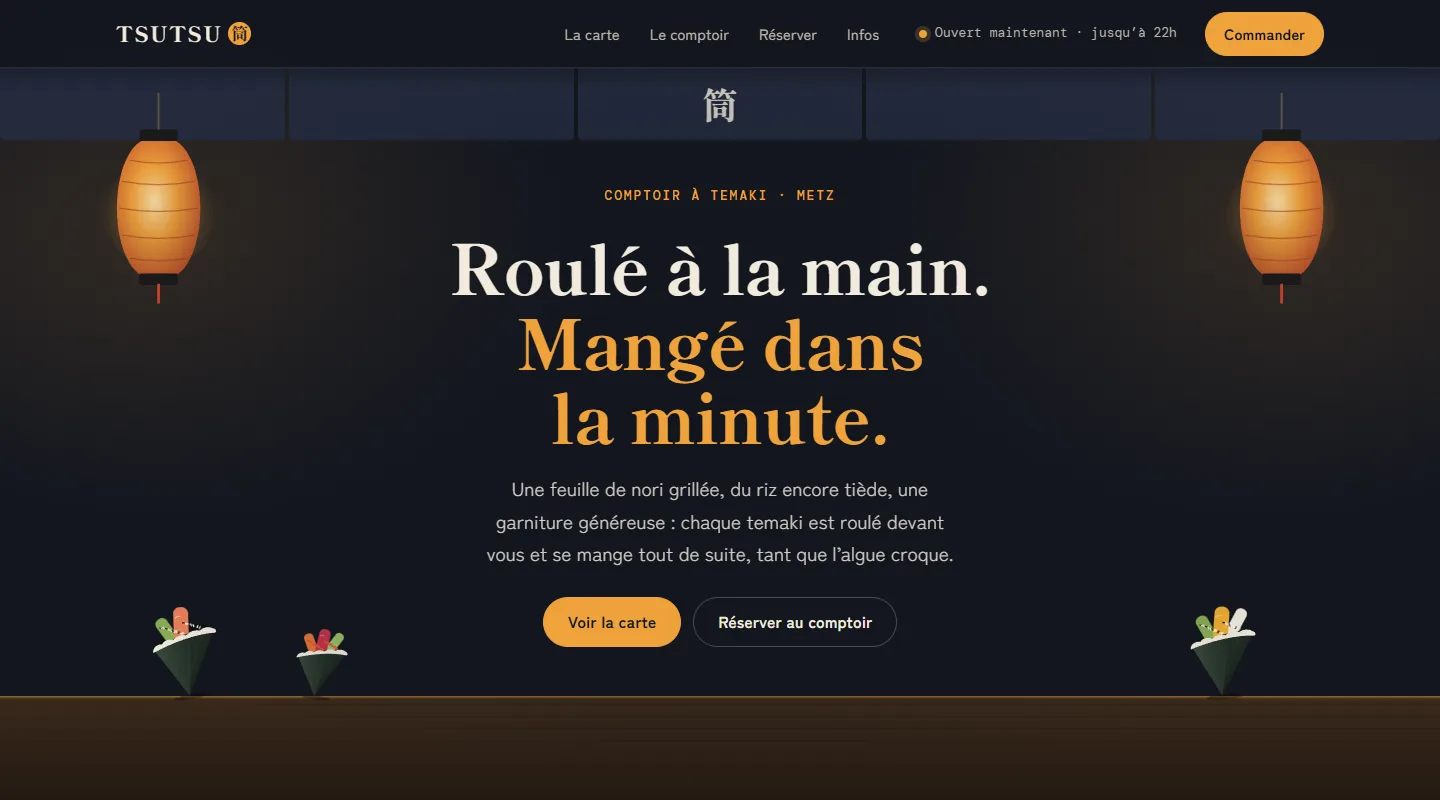
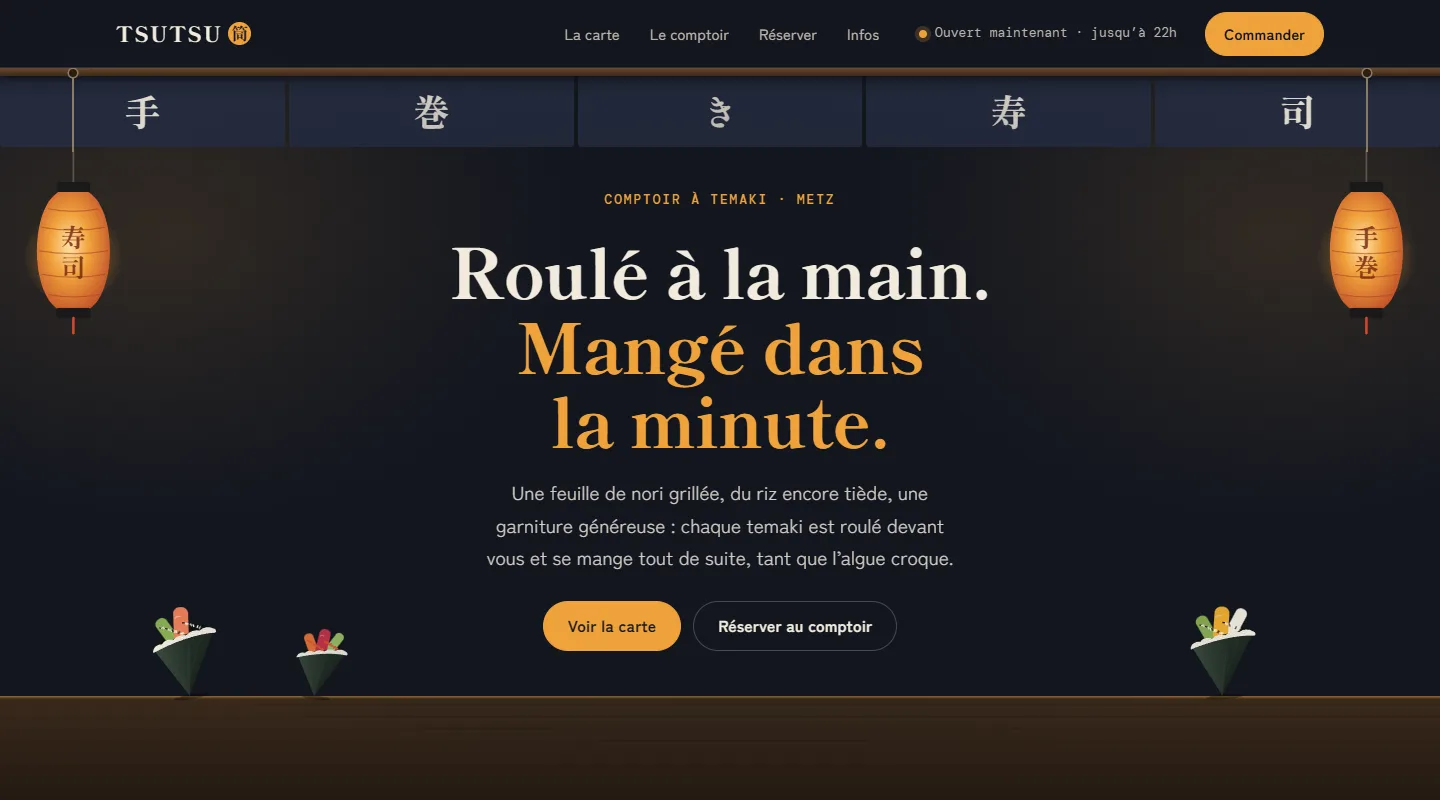
Vitrine+ : précision sur les fonctions de la démo TSUTSU
Mention discrète sous TSUTSU (Réalisations et exemple de formule) :
la démo montre plusieurs fonctions, Vitrine+ en inclut une au choix.
Page Tarifs : « Fonction supplémentaire : sur devis ». Captures de
TSUTSU mises à jour.

diff --git a/src/data/demos.ts b/src/data/demos.ts
@@ -22,6 +22,7 @@ export type Demo = {
   alt: string;
   description: string; // une phrase (bloc mis en avant)
   phraseFormule: string; // ce que la formule apporte concrètement dans cette démo (bloc des formules)
+  precision?: string; // petite mention sous la démo (Réalisations + exemple de formule), ex. démo plus riche que la formule
   positionImage: 'droite' | 'gauche'; // place de la vignette par rapport au nom (liste Réalisations)
   cadrage: string; // partie de la capture visible dans la vignette-pilule (CSS object-position)
   enAvant?: boolean; // true : démo du bloc « projet mis en avant » (une seule)
@@ -51,6 +52,8 @@ export const demos: Demo[] = [
     alt: 'Page d’accueil du site TSUTSU, comptoir à temaki : lanternes allumées et titre « Roulé à la main. Mangé dans la minute. »',
     description: 'Un comptoir à temaki fictif à Metz : la carte filtrable, la commande à emporter et la réservation au comptoir.',
     phraseFormule: 'Le menu en ligne, avec la commande à emporter : c’est la fonction sur mesure incluse.',
+    precision:
+      'La démo montre plusieurs fonctions (carte filtrable, click & collect, réservation). La formule Vitrine+ en inclut une au choix ; les autres sont disponibles en option.',
     positionImage: 'gauche',
     cadrage: '50% 45%',
     enAvant: true,

diff --git a/src/data/tarifs.ts b/src/data/tarifs.ts
@@ -31,6 +31,7 @@ export type Formule = {
   resume: string;
   ideal: string; // « Idéal pour… » (page Tarifs)
   detail: string[]; // tout ce qui est compris (page Tarifs)
+  supplement?: string; // mention discrète sous la liste (page Tarifs)
   pourQui: string; // une ligne sous le nom (accueil)
 };
 
@@ -88,6 +89,7 @@ export const formules: Formule[] = [
       "Jusqu'à 8 pages",
       '1 fonction dynamique au choix : catalogue filtrable, menu, prise de rendez-vous…',
     ],
+    supplement: 'Fonction supplémentaire : sur devis',
   },
 ];
 

diff --git a/src/styles/site.css b/src/styles/site.css
@@ -1243,3 +1243,6 @@ h3 {
 .tarifs-formule[data-choisie] {
   color: var(--accent);
 }
+.tarifs-supplement {
+  margin-top: 14px;
+}
